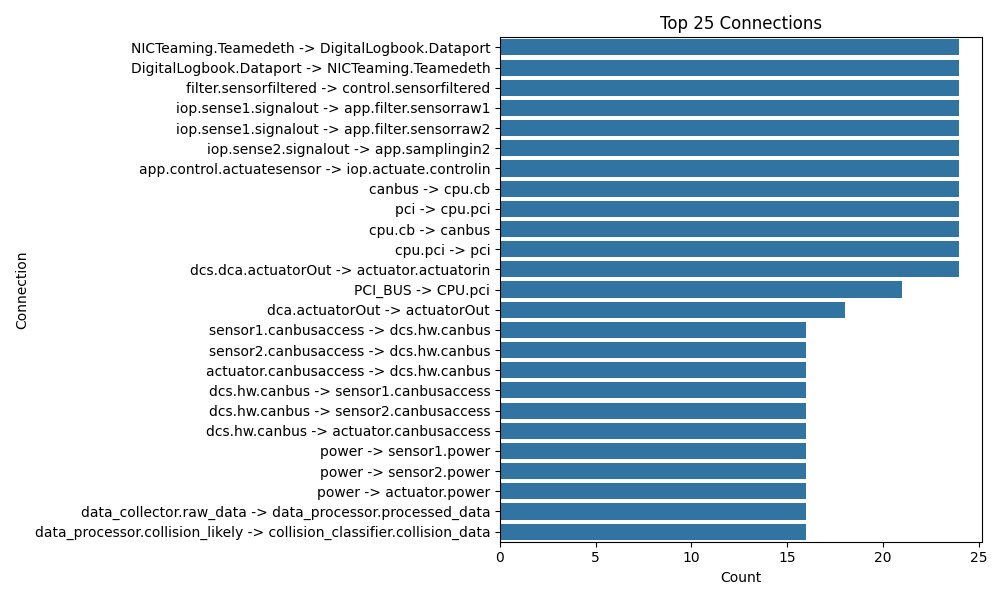
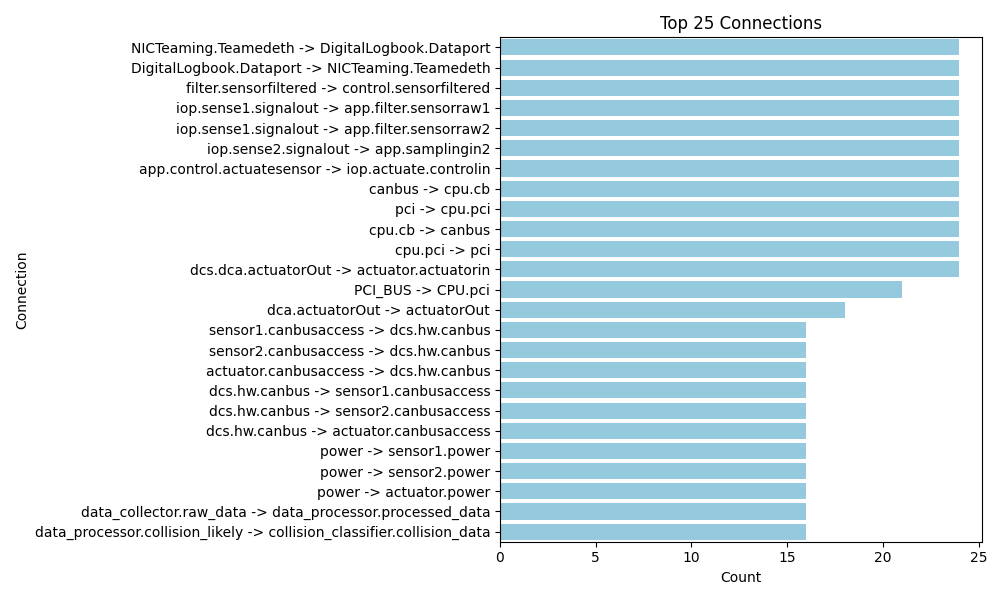
added top25 report for each preprocessing phase and edited AADL graph bar colors

Changed region(s): [[0.496, 0.06, 0.961, 0.9]]

diff --git a/labelling.py b/labelling.py
@@ -1,6 +1,8 @@
 import os
 import pandas as pd
 import re
+import matplotlib.pyplot as plt
+from collections import Counter
 from nltk.tokenize import word_tokenize
 from nltk.corpus import stopwords
 from nltk.stem import WordNetLemmatizer
@@ -8,7 +10,6 @@ import nltk
 from utility import load_config, create_directory, file_exists, delete_file, list_files_in_directory, copy_file
 
 nltk.download('punkt', download_dir='./nltk_data')
-nltk.download('punkt_tab', download_dir='./nltk_data')
 nltk.download('stopwords', download_dir='./nltk_data')
 nltk.download('wordnet', download_dir='./nltk_data')
 
@@ -24,6 +25,9 @@ class TextPreprocessing:
         # Define the Preprocessing folder path
         self.preprocessing_folder = os.path.join(self.config.get("output_folder", ""), "Preprocessing")
         create_directory(self.preprocessing_folder)
+        # Define the Top25Report folder path
+        self.top25_report_folder = os.path.join(self.preprocessing_folder, "Top25Report")
+        create_directory(self.top25_report_folder)
 
         # Specific words to remove
         self.words_to_remove = ["aadl", "aadlib", "impl"]
@@ -82,20 +86,20 @@ class TextPreprocessing:
 
         print(f"Preprocessed clusters data saved to {preprocessed_clusters_file}")
         print(f"Preprocessed suitable models data saved to {preprocessed_suitable_models_file}")
+        
+        # Generate the Top25Report
+        self.generate_top25_report()
 
     def preprocess_model_name(self, model_name):
-        # Ensure model_name is a valid string (handle NaN or non-string values)
         if isinstance(model_name, str) and model_name.strip():
             model_name = model_name.replace('.aaxl2', '')       
             model_name = model_name.lower()
-            # Remove undesired separators (_ and -), then split the string into words
             model_name = re.sub(r'[_-]', ' ', model_name)
-            # Remove the predefined words
             for word in self.words_to_remove:
                 model_name = re.sub(r'\b' + re.escape(word) + r'\b', '', model_name)
             tokens = word_tokenize(model_name)       
             return " ".join(tokens)
-        return model_name  # Return original if invalid
+        return model_name
 
     def preprocess_column(self, column_data):
         if isinstance(column_data, str) and column_data.strip():
@@ -108,12 +112,11 @@ class TextPreprocessing:
         return column_data
 
     def remove_stopwords(self, text):
-        # Ensure text is a valid string
         if isinstance(text, str) and text.strip():
             tokens = word_tokenize(text)
             tokens = [word for word in tokens if word not in self.stop_words]
             return " ".join(tokens)
-        return text  # Return original if invalid
+        return text
 
     def lemmatize(self, text):
         if isinstance(text, str) and text.strip():
@@ -133,3 +136,47 @@ class TextPreprocessing:
         file_path = os.path.join(self.preprocessing_folder, f"{step_name}.csv")
         df.to_csv(file_path, index=False)
         print(f"Intermediate preprocessing results saved to {file_path}")
+
+    def generate_top25_report(self):
+        """Generates and saves the Top 25 words from all the preprocessed CSV files."""
+        # List of all processed CSV files
+        csv_files = [
+            os.path.join(self.preprocessing_folder, 'tokenized_clusters.csv'),
+            os.path.join(self.preprocessing_folder, 'tokenized_suitable_models_data.csv'),
+            os.path.join(self.preprocessing_folder, 'non_alphanumeric_removed_clusters.csv'),
+            os.path.join(self.preprocessing_folder, 'non_alphanumeric_removed_suitable_models_data.csv'),
+            os.path.join(self.preprocessing_folder, 'stopwords_removed_clusters.csv'),
+            os.path.join(self.preprocessing_folder, 'stopwords_removed_suitable_models_data.csv'),
+            os.path.join(self.preprocessing_folder, 'lemmatized_clusters.csv'),
+            os.path.join(self.preprocessing_folder, 'lemmatized_suitable_models_data.csv')
+        ]
+        
+        # Process each CSV file and create a Top 25 words report
+        for csv_file in csv_files:
+            if os.path.exists(csv_file):
+                df = pd.read_csv(csv_file)
+                # Concatenate all text data from relevant columns
+                text_data = " ".join(df["Model"].dropna())  # Get all model data and drop NaN
+                # Tokenize the text
+                tokens = word_tokenize(text_data.lower())
+                # Remove stopwords
+                filtered_tokens = [word for word in tokens if word not in self.stop_words and word.isalnum()]
+                # Count the frequency of each word
+                word_counts = Counter(filtered_tokens)
+                # Get the top 25 words
+                top25 = word_counts.most_common(25)
+
+                # Save the top 25 words as a plot
+                words, counts = zip(*top25)
+                plt.figure(figsize=(10, 6))
+                plt.barh(words, counts, color='skyblue')
+                plt.xlabel('Frequency')
+                plt.title(f"Top 25 Words in {os.path.basename(csv_file)}")
+                
+                # Save the plot to the Top25Report folder
+                plot_file = os.path.join(self.top25_report_folder, f"top25_{os.path.basename(csv_file).replace('.csv', '.png')}")
+                plt.tight_layout()
+                plt.savefig(plot_file)
+                plt.close()
+                print(f"Top 25 words plot saved to {plot_file}")
+

diff --git a/AADL_manager.py b/AADL_manager.py
@@ -283,7 +283,7 @@ class AADLAnalysis:
         total_suitable_models = len(self.suitable_files)
         
         plt.figure(figsize=(8, 6))
-        bars = plt.bar(['Total AADL Models', 'Suitable AADL Models'], [total_aadl_models, total_suitable_models])
+        bars = plt.bar(['Total AADL Models', 'Suitable AADL Models'], [total_aadl_models, total_suitable_models], color='skyblue')
         plt.title('Total vs Suitable AADL Models')
         plt.ylabel('Count')
         for bar in bars:
@@ -302,7 +302,7 @@ class AADLAnalysis:
         }
 
         plt.figure(figsize=(8, 6))
-        bars = plt.bar(counts.keys(), counts.values())
+        bars = plt.bar(counts.keys(), counts.values(), color='skyblue')
         plt.title('Total Count of Components, Features, Connections, Modes and Flow Specifications')
         plt.ylabel('Count')
         for bar in bars:
@@ -316,7 +316,7 @@ class AADLAnalysis:
         cluster_counts = clusters_df['Cluster'].value_counts().sort_index()
 
         plt.figure(figsize=(10, 6))
-        bars = sns.barplot(x=cluster_counts.index, y=cluster_counts.values)
+        bars = sns.barplot(x=cluster_counts.index, y=cluster_counts.values, color='skyblue')
         plt.title('Cluster Distribution of AADL Models')
         plt.xlabel('Cluster')
         plt.ylabel('Number of Models')
@@ -340,7 +340,7 @@ class AADLAnalysis:
                 suitable_cluster_counts[cluster] = 0
         suitable_cluster_counts = suitable_cluster_counts.sort_index()
         plt.figure(figsize=(10, 6))
-        bars = sns.barplot(x=suitable_cluster_counts.index, y=suitable_cluster_counts.values)
+        bars = sns.barplot(x=suitable_cluster_counts.index, y=suitable_cluster_counts.values, color='skyblue')
         # Highlight clusters with 0 suitable models
         for cluster, count in suitable_cluster_counts.items():
             if count == 0:
@@ -356,14 +356,13 @@ class AADLAnalysis:
         plt.savefig(os.path.join(self.output_folder, 'suitable_cluster_distribution.png'))
         plt.close()
 
-
     def plot_top_instances(self, component_counter, feature_counter, connection_instance_counter):
         top_25_components = component_counter.most_common(25)
         top_25_features = feature_counter.most_common(25)
         top_25_connections = connection_instance_counter.most_common(25)
 
         plt.figure(figsize=(10, 6))
-        sns.barplot(x=[comp[1] for comp in top_25_components], y=[comp[0] for comp in top_25_components])
+        sns.barplot(x=[comp[1] for comp in top_25_components], y=[comp[0] for comp in top_25_components], color='skyblue')
         plt.title('Top 25 Components')
         plt.xlabel('Count')
         plt.ylabel('Component')
@@ -372,16 +371,16 @@ class AADLAnalysis:
         plt.close()
 
         plt.figure(figsize=(10, 6))
-        sns.barplot(x=[comp[1] for comp in top_25_features], y=[comp[0] for comp in top_25_features])
+        sns.barplot(x=[comp[1] for comp in top_25_features], y=[comp[0] for comp in top_25_features], color='skyblue')
         plt.title('Top 25 Features')
         plt.xlabel('Count')
-        plt.ylabel('Fature')
+        plt.ylabel('Feature')
         plt.tight_layout()
         plt.savefig(os.path.join(self.output_folder, 'top_25_features.png'))
         plt.close()
 
         plt.figure(figsize=(10, 6))
-        sns.barplot(x=[comp[1] for comp in top_25_connections], y=[comp[0] for comp in top_25_connections])
+        sns.barplot(x=[comp[1] for comp in top_25_connections], y=[comp[0] for comp in top_25_connections], color='skyblue')
         plt.title('Top 25 Connections')
         plt.xlabel('Count')
         plt.ylabel('Connection')
